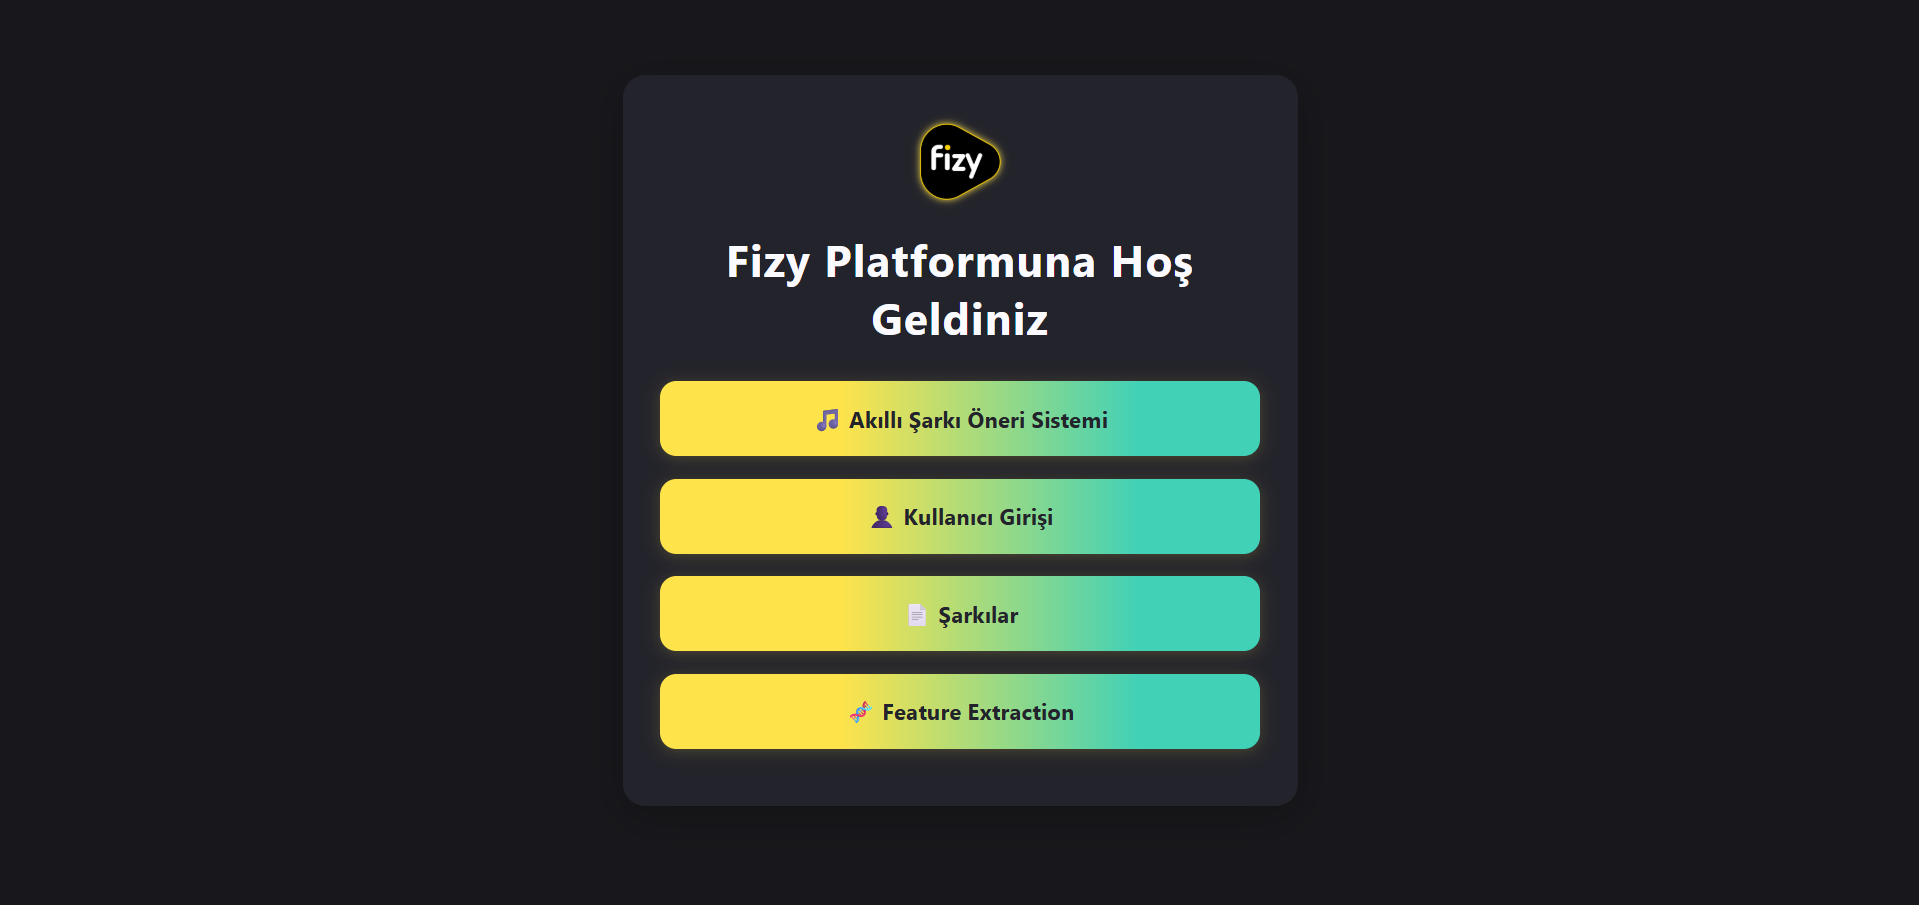
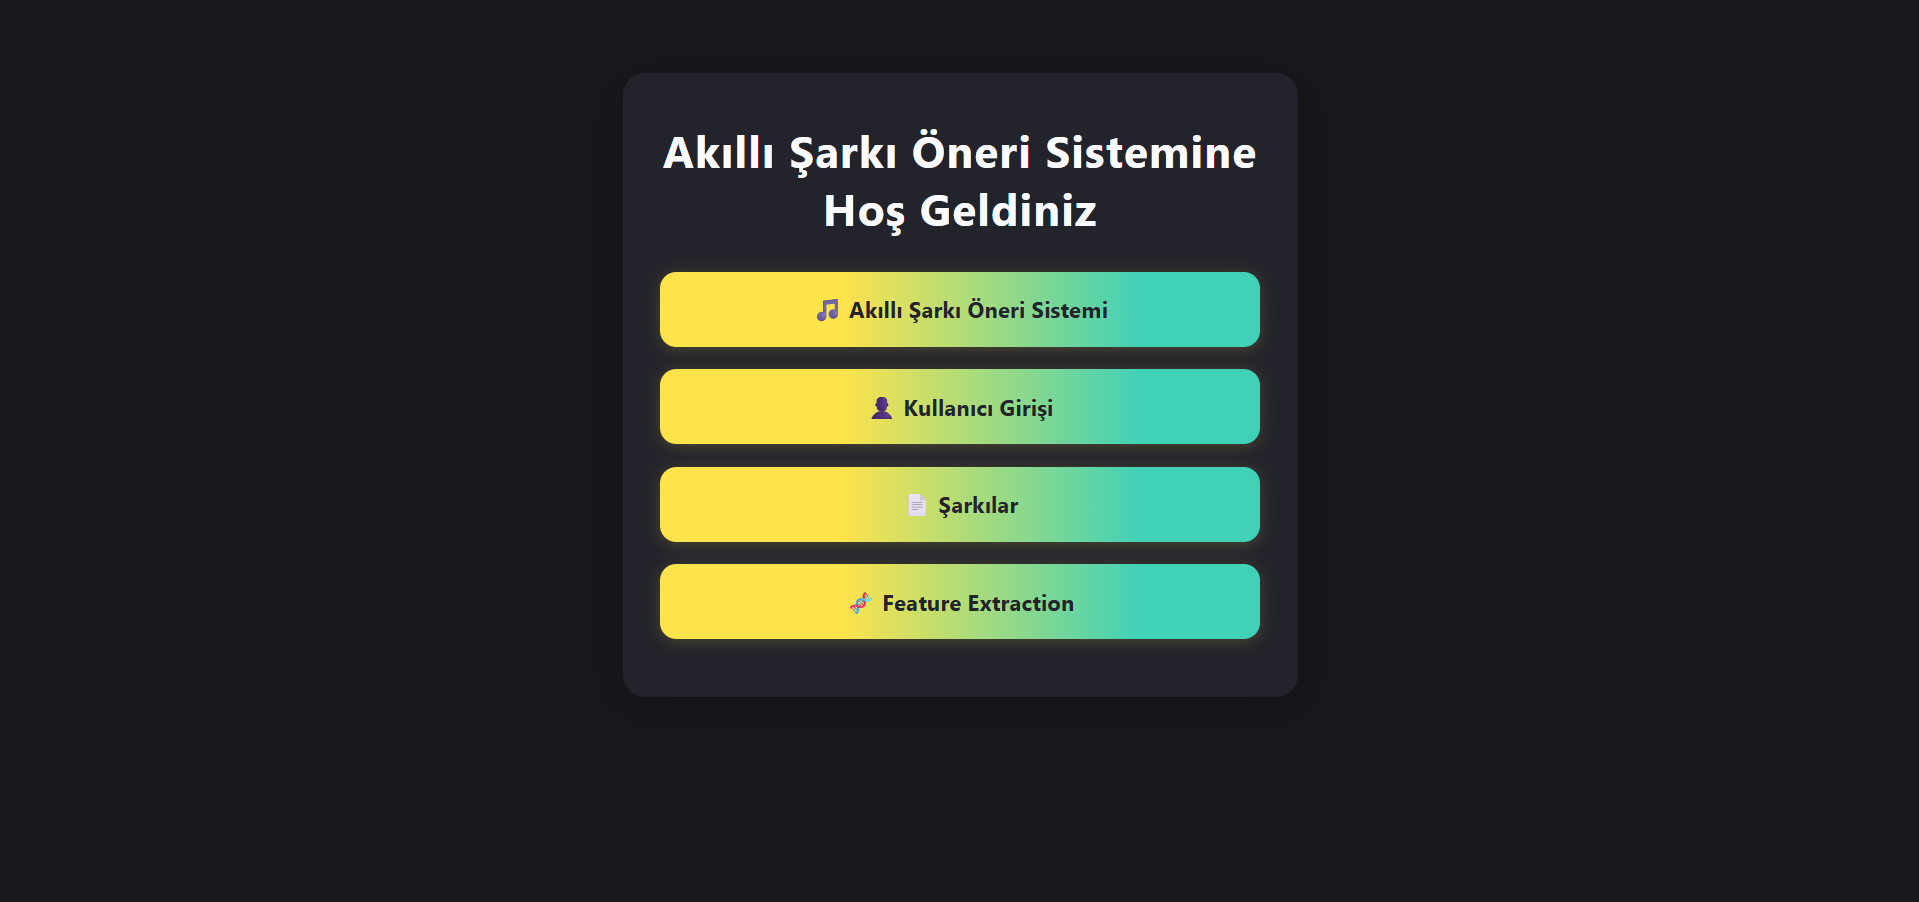
edited

Changed region(s): [[0.3382, 0.1242, 0.6764, 0.8381]]

diff --git a/templates/dashboard.html b/templates/dashboard.html
@@ -7,8 +7,7 @@
     <style>
         body { background: #18181c; color: #fff; font-family: 'Segoe UI', 'Roboto', sans-serif; margin: 0; }
         .container { max-width: 680px; margin: 40px auto; background: #23232b; border-radius: 20px; box-shadow: 0 8px 32px #0005; padding: 34px 28px; }
-        .header { display: flex; align-items: center; justify-content: space-between; margin-bottom: 18px; }
-        .header .logo img { height: 46px; }
+        .header { display: flex; align-items: center; justify-content: flex-end; margin-bottom: 18px; }
         .header .logout-btn { background: #ffe34b; color: #23232b; border: none; border-radius: 7px; padding: 9px 18px; font-weight: bold; cursor: pointer; }
         .header .logout-btn:hover { background: #41d1b7; color: #23232b; }
         h2 { color: #ffe34b; margin-bottom: 7px; }
@@ -24,9 +23,6 @@
 <body>
     <div class="container">
         <div class="header">
-            <div class="logo">
-                <img src="{{ url_for('static', filename='logo.png') }}" alt="Fizy Logo">
-            </div>
             <form method="get" action="{{ url_for('logout') }}">
                 <button type="submit" class="logout-btn">Çıkış Yap</button>
             </form>
